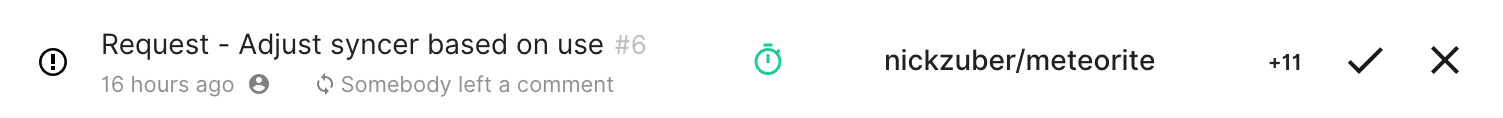
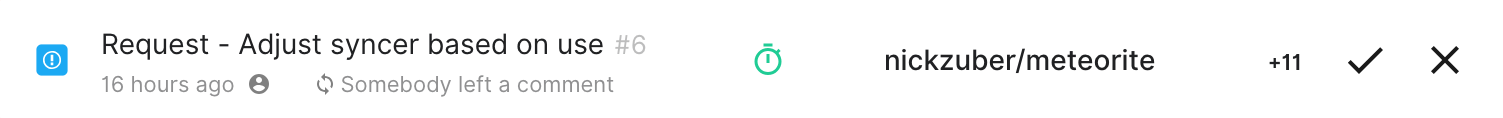
New charts, small ui changes, few bug fixes

Changed region(s): [[0.0, 0.3559, 0.0612, 0.661]]

diff --git a/src/pages/Notifications/Scene.js b/src/pages/Notifications/Scene.js
@@ -485,52 +485,163 @@ const SmallLink = styled('a')({
   }
 });
 
-const BarGraph = styled('div')({
+const BarGraphDiv = styled('div')({
   position: 'relative',
   height: 100,
   ':after': {
-    content: `"Triaged notifications compared to last week"`,
+    content: `"Notifications Read"`,
     position: 'absolute',
-    display: 'flex',
-    justifyContent: 'center',
-    alignItems: 'center',
-    textAlign: 'center',
-    fontSize: 10,
-    width: '100%',
-    bottom: -30,
+    textAlign: 'left',
+    fontSize: 16,
+    top: -67,
+    left: -23,
     fontWeight: 500
   }
+});
+
+const FauxGridLine = styled('div')({
+  position: 'absolute',
+  width: '100%',
+  height: 1,
+  background: '#f3f3f3',
+}, ({offsetY, tick, showDecimals}) => ({
+  bottom: offsetY,
+  ':after': tick !== false ? {
+    content: showDecimals
+      ? `"${tick.toFixed(2).replace('.00', '')}"`
+      : `"${Math.round(tick)}"`,
+    position: 'absolute',
+    top: '-6px',
+    left: '-30px',
+    width: '20px',
+    textAlign: 'right',
+  } : {}
+}));
+
+const Legend = styled('div')({
+  position: 'absolute',
+  textAlign: 'left',
+  top: -35,
+  left: -23,
+});
+
+const LegendItem = styled('div')({
+  position: 'relative',
+  display: 'inline-block',
+  fontSize: 12,
+  marginRight: 15,
+}, ({color}) => ({
+  ':before': {
+    content: '" "',
+    background: color,
+    display: 'inline-block',
+    height: 12,
+    width: 12,
+    borderRadius: 2,
+    marginRight: 5,
+    verticalAlign: 'middle'
+  }
+}));
+
+function BarGraph ({children, numLines, max, ...props}) {
+  const height = 100;
+  const gapSize = height / (numLines - 1);
+  const yAxisTickOffset = gapSize / 100 * max;
+  // Only show decimals if we have to, e.g. the steps are under 1.
+  const showDecimals = yAxisTickOffset * numLines < 2;
+  return (
+    <BarGraphDiv>
+      <Legend>
+        <LegendItem color="#f2f9ff">Last week</LegendItem>
+        <LegendItem color="#17aaf3">This week</LegendItem>
+      </Legend>
+      {new Array(numLines).fill(0).map((_, i) => (
+        <FauxGridLine
+          key={i}
+          offsetY={i * gapSize}
+          showDecimals={showDecimals}
+          tick={yAxisTickOffset > 0 || i === 0 ? (
+             i % 2 === 0 ? i * yAxisTickOffset : false
+          ) : (
+            false
+          )}
+        />
+      ))}
+      {children}
+    </BarGraphDiv>
+  );
+}
+
+const Separator = styled('div')({
+  position: 'relative',
+  background: '#f3f3f3',
+  width: '100%',
+  height: 1,
+  margin: '30px 0'
 });
 
 const BarContainer = styled('div')({
   position: 'absolute',
   display: 'flex',
   flexDirection: 'row',
-  justifyContent: 'space-around',
+  justifyContent: 'space-evenly',
   width: '100%',
   height: 100,
   alignItems: 'flex-end',
-}, ({opacity}) => ({
+}, ({opacity, hide}) => ({
   'div': {
-    opacity: opacity === undefined ? 1 : opacity
+    background: opacity ? '#f2f9ff' : undefined,
+    opacity: hide ? 0 : 1
   }
 }));
 
 const stripe_size = 3;
 const Bar = styled('div')({
   position: 'relative',
-  width: 20,
+  width: 30,
   minHeight: 5,
   background: '#00d19a',
   borderRadius: 4,
-}, ({height, active, color = '#00d19a', visible = true}) => ({
+}, ({height, active, label, visible = true, bottomTick}) => ({
   height,
   background: !visible
     ? 'none'
-    : active
-      ? `repeating-linear-gradient(45deg, ${color}, ${color} ${stripe_size}px, ${color}55 ${stripe_size}px, ${color}55 ${stripe_size * 2}px)`
-      : color,
+    : active && false
+      ? `repeating-linear-gradient(45deg, #28abf0, #28abf0 ${stripe_size}px, #28abf055 ${stripe_size}px, #28abf055 ${stripe_size * 2}px)`
+      : '#28abf0',
+  ':after': label ? {
+    content: `"${label}"`,
+    position: 'absolute',
+    left: '-20px',
+    width: '70px',
+    textAlign: 'center',
+    bottom: '-25px',
+    color: '#3f464c',
+  } : {},
+  ':before': bottomTick ? {
+    content: '" "',
+    position: 'absolute',
+    background: '#f3f3f3',
+    width: '1px',
+    height: '8px',
+    bottom: '-8px',
+    left: '14px',
+  } : {},
 }));
+
+const PageCount = styled('div')({
+  fontSize: 12,
+  margin: '12px auto',
+  width: '100%',
+  textAlign: 'center',
+  color: 'rgb(32, 33, 36)'
+});
+
+const NotificationIconWrapper = styled('div')({
+  background: '#22303f',
+  borderRadius: 4,
+  transform: 'scale(.65)'
+});
 
 const EnhancedBar = withTooltip(Bar);
 const EnhancedTab = withTooltip(Tab);
@@ -541,16 +652,22 @@ const EnhancedIconHot = withTooltip(Icon.Hot);
 const EnhancedIconTimer = withTooltip(Icon.Timer);
 const EnhancedIconConvo = withTooltip(Icon.Convo);
 
-function getPRIssueIcon (type, reasons) {
-  const grow = 1.0;
+// @TODO if GitHub ever fixes their API, we can use `reasons` to know when
+// a PR/Issue merges/closes/etc.
+function getPRIssueIcon (type, _reasons) {
+  const scale = 1.0;
   switch (type) {
     case 'PullRequest':
       return (
-        <Icon.PrMerged shrink={grow} />
+        <NotificationIconWrapper style={{background: '#00d299'}}>
+          <Icon.PrMerged shrink={scale} style={{filter: 'invert(1)'}} />
+        </NotificationIconWrapper>
       );
     case 'Issue':
       return (
-        <Icon.IssueOpen shrink={grow} />
+        <NotificationIconWrapper style={{background: '#00a8f6'}}>
+          <Icon.IssueOpen shrink={scale} style={{filter: 'invert(1)'}} />
+        </NotificationIconWrapper>
       );
     default:
       return null;
@@ -600,18 +717,19 @@ export default function Scene ({
     ? Icon.NotificationsOn
     : Icon.NotificationsOff;
 
-  // console.log('notifications', notifications)
-  // console.log('isFirstTimeUser', isFirstTimeUser)
-  // console.log('notificationsPermission', notificationsPermission)
-
   if (isFirstTimeUser && notifications.length > 10) {
     // probably prompt to mark all as read to start out since they prob don't use notifs
   }
 
   stagedStatistics = stagedStatistics.map(n => parseInt(n, 10));
+
   const highestStagedCount = stagedStatistics.reduce((n, m) => Math.max(n, m), 0);
-  const lastWeekStats = stagedStatistics.slice(0, 7);
-  const thisWeekStats = stagedStatistics.slice(7);
+  let lastWeekStats = stagedStatistics.slice(0, 7);
+  let thisWeekStats = stagedStatistics.slice(7);
+
+  // Trim off the weekends.
+  lastWeekStats = lastWeekStats.slice(1, -1);
+  thisWeekStats = thisWeekStats.slice(1, -1);
 
   return (
     <div style={{marginTop: 60}}>
@@ -756,21 +874,23 @@ export default function Scene ({
                 )}
                 commented
               </EnhancedSidebarLink>
+              <Separator style={{marginBottom: 90}} />
               <div style={{
                 padding: 14,
                 borderRadius: 4,
                 height: 100,
                 fontSize: 11,
-                margin: '24px 8px 20px'
+                margin: '62px 8px 20px',
+                marginLeft: 30,
               }}>
-                <BarGraph>
+                <BarGraph numLines={6} max={highestStagedCount * 1.15}>
                   {/* Last week's statistics */}
-                  <BarContainer opacity={0.15}>
+                  <BarContainer opacity={true}>
                     {lastWeekStats.map((dayStats, i) => (
                       <Bar
                         key={i}
-                        color={getColorFromFilter(activeFilter)}
-                        height={(dayStats / highestStagedCount) * 100}
+                        // color={getColorFromFilter(activeFilter)}
+                        height={(dayStats / (highestStagedCount * 1.15)) * 100}
                       />
                     ))}
                   </BarContainer>
@@ -779,35 +899,39 @@ export default function Scene ({
                     {thisWeekStats.map((dayStats, i) => (
                       <Bar
                         key={i}
-                        color={getColorFromFilter(activeFilter)}
-                        active={currentTime.day() === i}
-                        label="Sunday"
-                        height={(dayStats / highestStagedCount) * 100}
-                        visible={currentTime.day() >= i}
+                        label={i % 2 === 0 ? getWeekday(i + 1) : null}
+                        bottomTick={true}
+                        // color={getColorFromFilter(activeFilter)}
+                        active={currentTime.day() === i + 1}
+                        height={(dayStats / (highestStagedCount * 1.15)) * 100}
+                        visible={currentTime.day() >= i + 1}
                       />
                     ))}
                   </BarContainer>
                   {/* Wrapper for tooltips */}
-                  <BarContainer opacity={0}>
+                  {/* <BarContainer hide={true}>
                     {thisWeekStats.map((dayStats, i) => (
                       <EnhancedBar
                         key={i}
-                        style={{width: 33}}
-                        tooltip={getWeekday(i)}
+                        style={{width: 45}}
+                        tooltip={dayStats || '0'}
                         tooltipOffsetY={
                           (Math.max((dayStats / highestStagedCount) * 100, 5) * -1) + 85
                         }
-                        tooltipOffsetX={5}
+                        tooltipOffsetX={17}
                         tooltipSpeed={0}
                         height={100}
                       />
                     ))}
-                  </BarContainer>
+                  </BarContainer> */}
                 </BarGraph>
               </div>
+              <Separator style={{marginTop: 60}} />
               <div style={{
                 padding: 14,
+                paddingTop: 8,
                 margin: 34,
+                marginTop: 0,
                 position: 'relative',
                 display: 'block',
               }}>
@@ -853,8 +977,8 @@ export default function Scene ({
             <EnhancedTab
               tooltip={!loading ? (
                 notificationsPermission === 'granted'
-                  ? "Turn off web notifications"
-                  : "Turn on web notifications"
+                  ? "Turn off desktop notifications"
+                  : "Turn on desktop notifications"
                 ) : null}
               disabled={loading}>
               <NotificationsIcon
@@ -1044,7 +1168,7 @@ export default function Scene ({
                       </TableItem>
                       <TableItem width={100}>
                         <InlineBlockContainer>
-                          {n.badges.map(badge => {
+                          {activeStatus === Status.QUEUED && n.badges.map(badge => {
                             switch (badge) {
                               case Badges.HOT:
                                 // lots of `reasons` within short time frame
@@ -1143,6 +1267,7 @@ export default function Scene ({
             )}
           </Notifications>
         </NotificationsContainer>
+        {!loading && <PageCount>Page {page} out of {lastPage}</PageCount>}
         </div>
       </div>
     </div>

diff --git a/src/pages/Home/Scene.js b/src/pages/Home/Scene.js
@@ -713,7 +713,7 @@ export default function Scene ({loggedIn, onLogout, ...props}) {
             </ItemText>
             <ItemText>
               <Icon.NotificationsOn style={{filter: 'invert(1)'}} />
-              <p>Allows you to opt in for web notifications whenever you recieve important update to help notify you right away.</p>
+              <p>Allows you to opt in for desktop notifications whenever you recieve important update to help notify you right away.</p>
             </ItemText>
           </Item>
           <Item className="item-text">

diff --git a/README.md b/README.md
@@ -15,13 +15,13 @@ It's actually pretty simple - we use GitHub's notifications API to get your noti
 
 Using this information, we're able to give a score of importantce to each thread based on the history of reasons we saw coming in. For example, a pull request that is assigned to you, has your review requested, and has 30 comments on it, will be scored much higher than an issue you opened up and received a single comment of someone saying "nice" on it.
 
-We're also able to hook into web notifications to alert you when you get a GitHub notification if you'd want - something like this is totally opt-in.
+We're also able to hook into desktop notifications to alert you when you get a GitHub notification if you'd want - something like this is totally opt-in.
 
 Some key features include:
 
  - Scores your notifications based on their importance, so we can surface the most critical updates at the top of your queue.
  - Provides you with quick context for why you're receiving each notification.
- - Allows you to opt in for web notifications whenever you recieve important update to help notify you right away.
+ - Allows you to opt in for desktop notifications whenever you recieve important update to help notify you right away.
  - Protects you from useless spammy notifications that you don't care about.
  - Let's you focus in on specific types of notifications that matter to you, like when your review is requested for a pull request or you were assigned an issue.
  - Unlocks dope statistics that help you understand how you interact with notifications on a daily basis.
